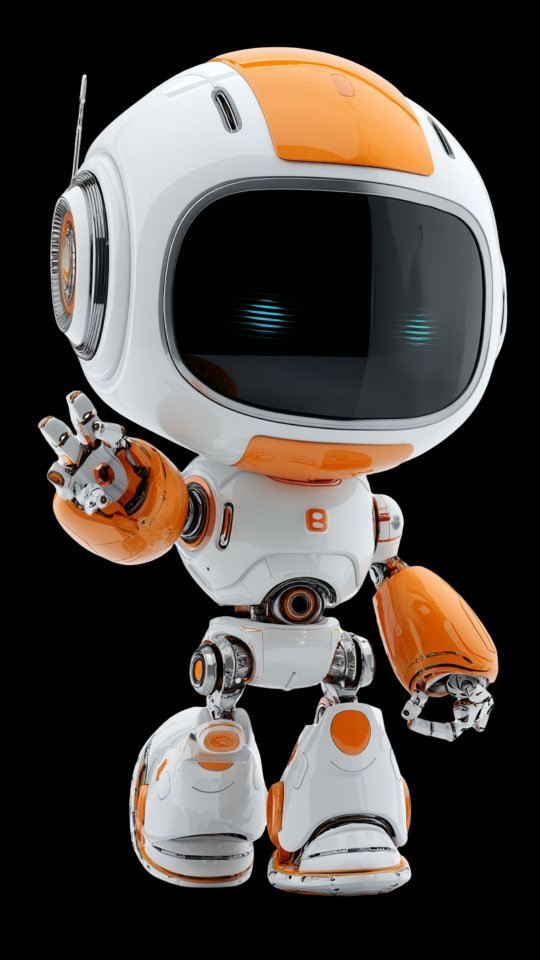
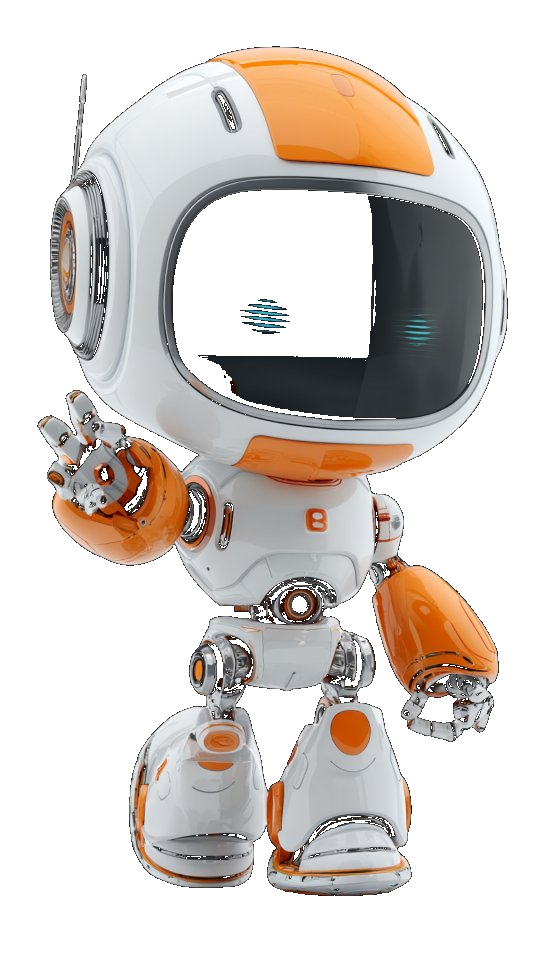
Remove black background from robot PNG and restore to login page
Used PIL to strip near-black pixels (threshold < 30) from
abbvie-bot-sm.png, giving it proper transparency. Restored
.login-bot CSS so the robot floats over the login screen
with drop-shadow and floating animation.

diff --git a/index.html b/index.html
@@ -456,7 +456,15 @@ input::placeholder, textarea::placeholder { color: var(--text-3); }
 
 /* ---- AbbVie bot · stands in the gap between hero text and the sign-in card ---- */
 .login-bot {
-  display: none;
+  position: absolute;
+  z-index: 4;
+  bottom: 0;
+  right: calc(43% - var(--login-bot-nudge, 5px));
+  width: min(clamp(300px, 37.5vw, 450px), 45vh);
+  pointer-events: none;
+  filter: drop-shadow(0 14px 16px rgba(11,19,32,0.18));
+  animation: botFloat 5.5s ease-in-out infinite;
+  will-change: transform;
 }
 .login-bot img { width: 100%; height: auto; display: block; }
 @keyframes botFloat {
